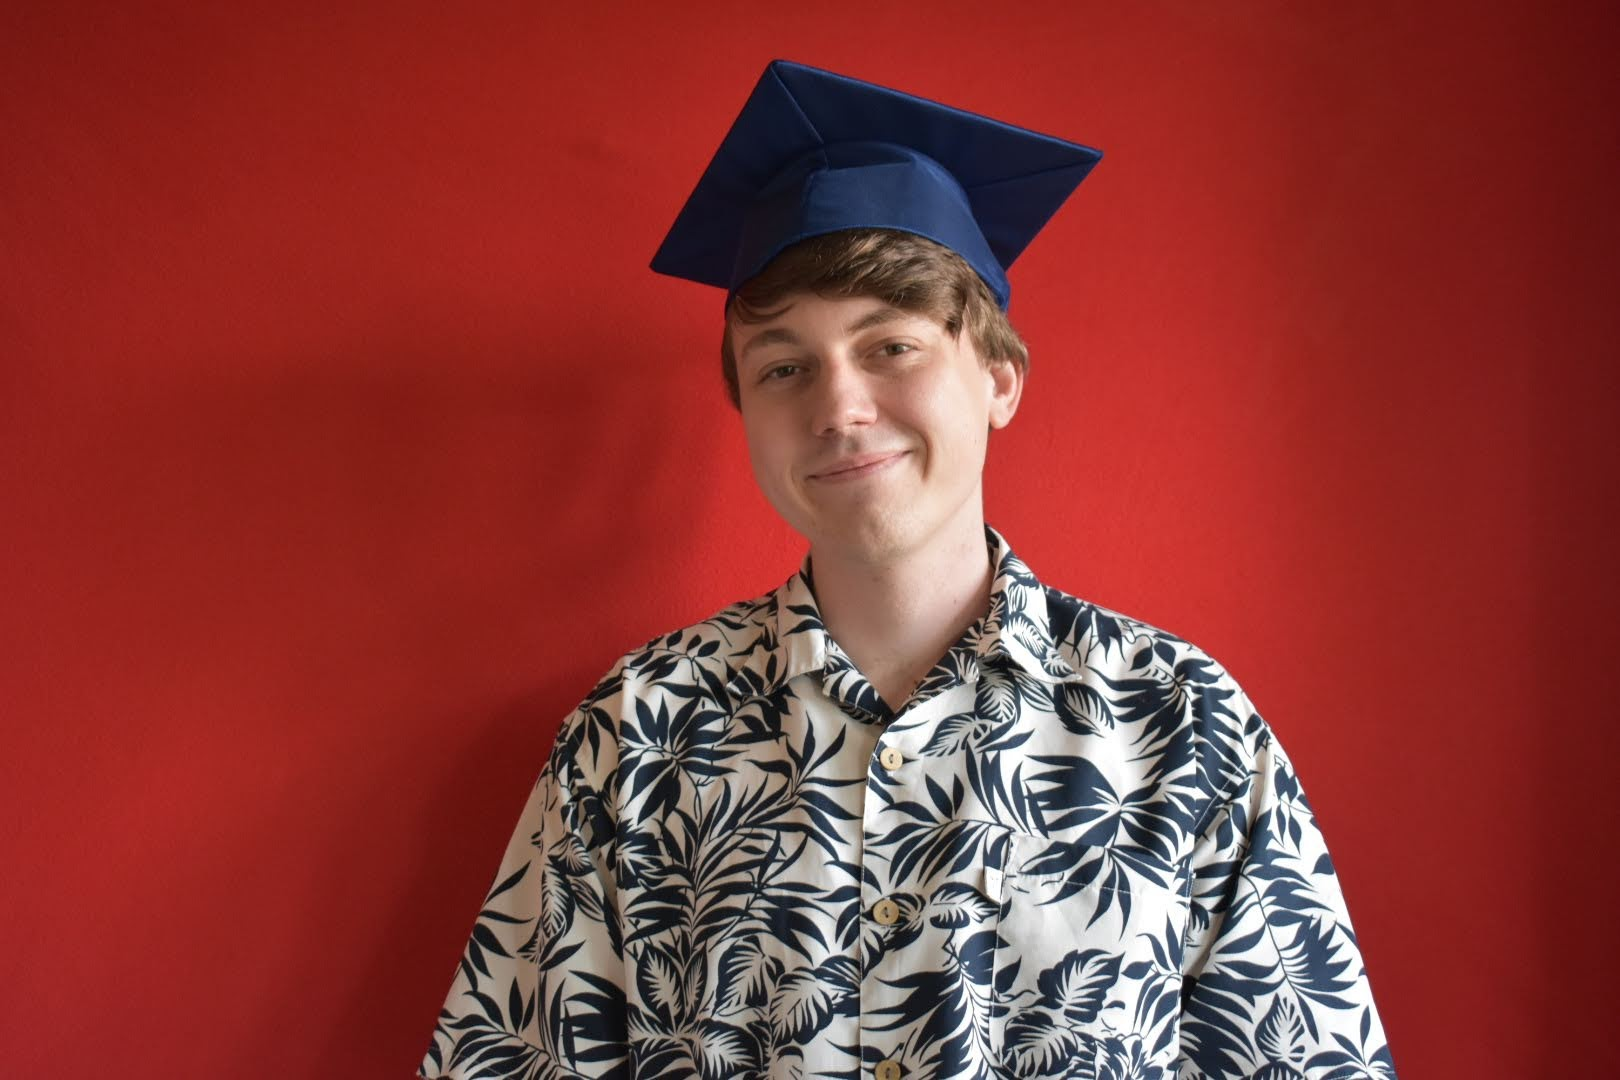
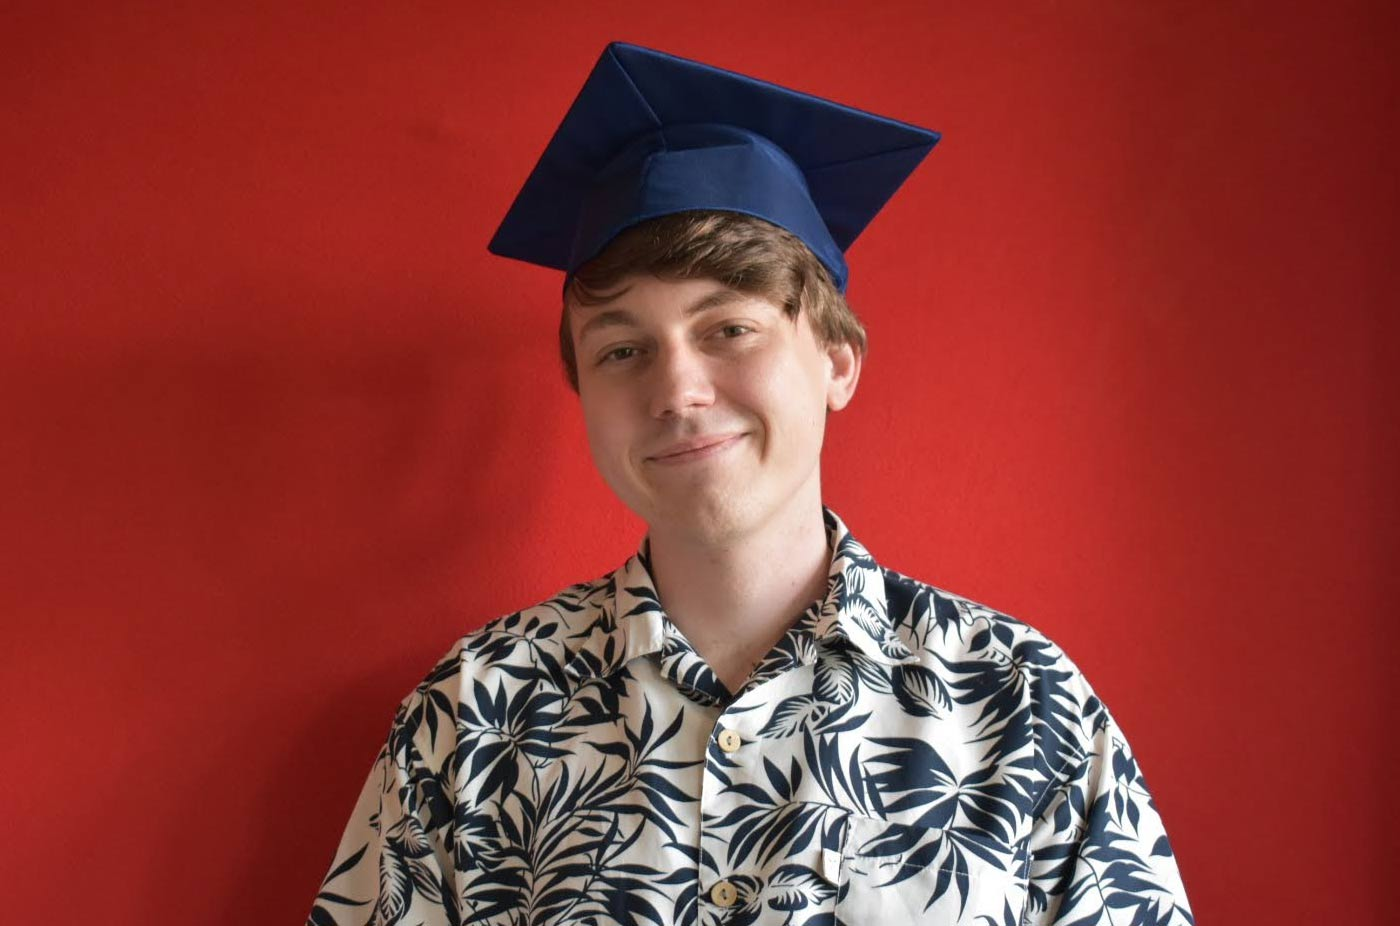
Images optimized
images optimized for web, some changed from .png to .jpg

Changed region(s): [[0.1536, 0.0302, 0.8907, 1.0], [0.9214, 0.7559, 0.9829, 1.0]]

diff --git a/onlinetutoring.html b/onlinetutoring.html
@@ -113,7 +113,7 @@ PAGE BELOW
   <p>We us a combination of webcam ZOOM sessions and powerful virtual whiteboard software with lots of useful features to host our tutorials. We provide ongoing technical support and train all new students on how to use the software in our first free session.</p></div>
 
     <div class="flex-item-big">
-    <img src="whiteboard.png" style="width:100%">
+    <img src="whiteboard.jpg" style="width:100%">
   </div>
   <div class="flex-item-big"> 
     <img src="onlinelearning3.jpg" style="width:100%">

diff --git a/about.html b/about.html
@@ -123,7 +123,7 @@ PAGE BELOW
   </div>
       <div class="flex-item-small">
     
-    <img src="danaan.png" style="width:100%"> 
+    <img src="danaan.jpg" style="width:100%"> 
 
   </div>
 
